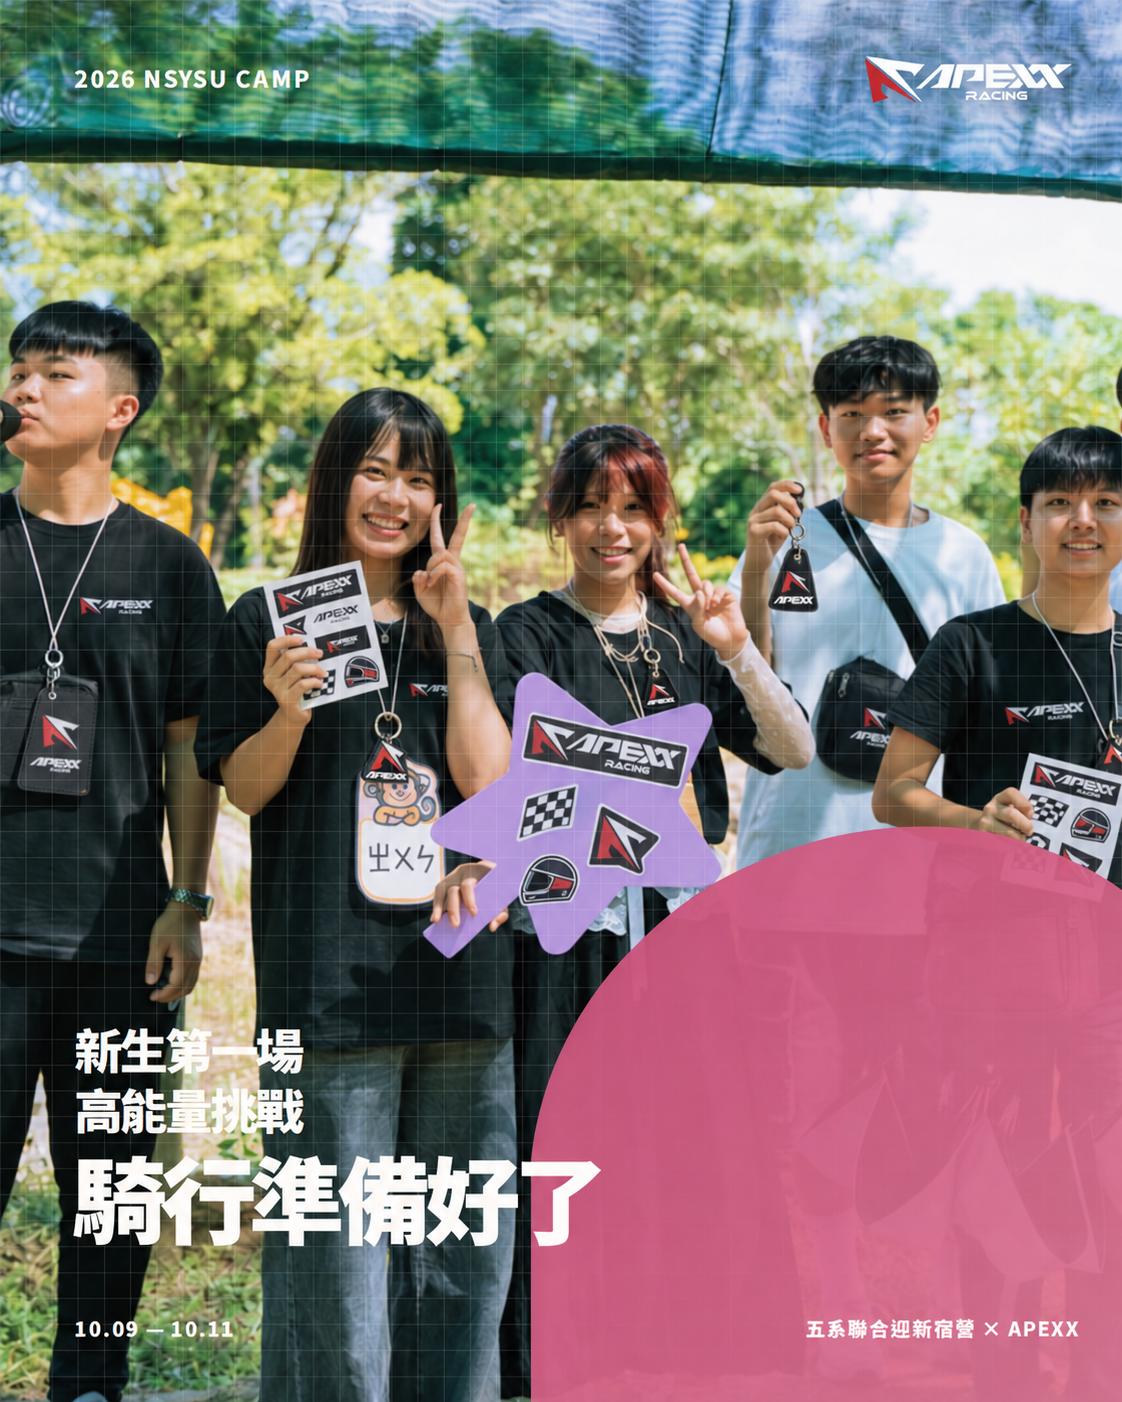
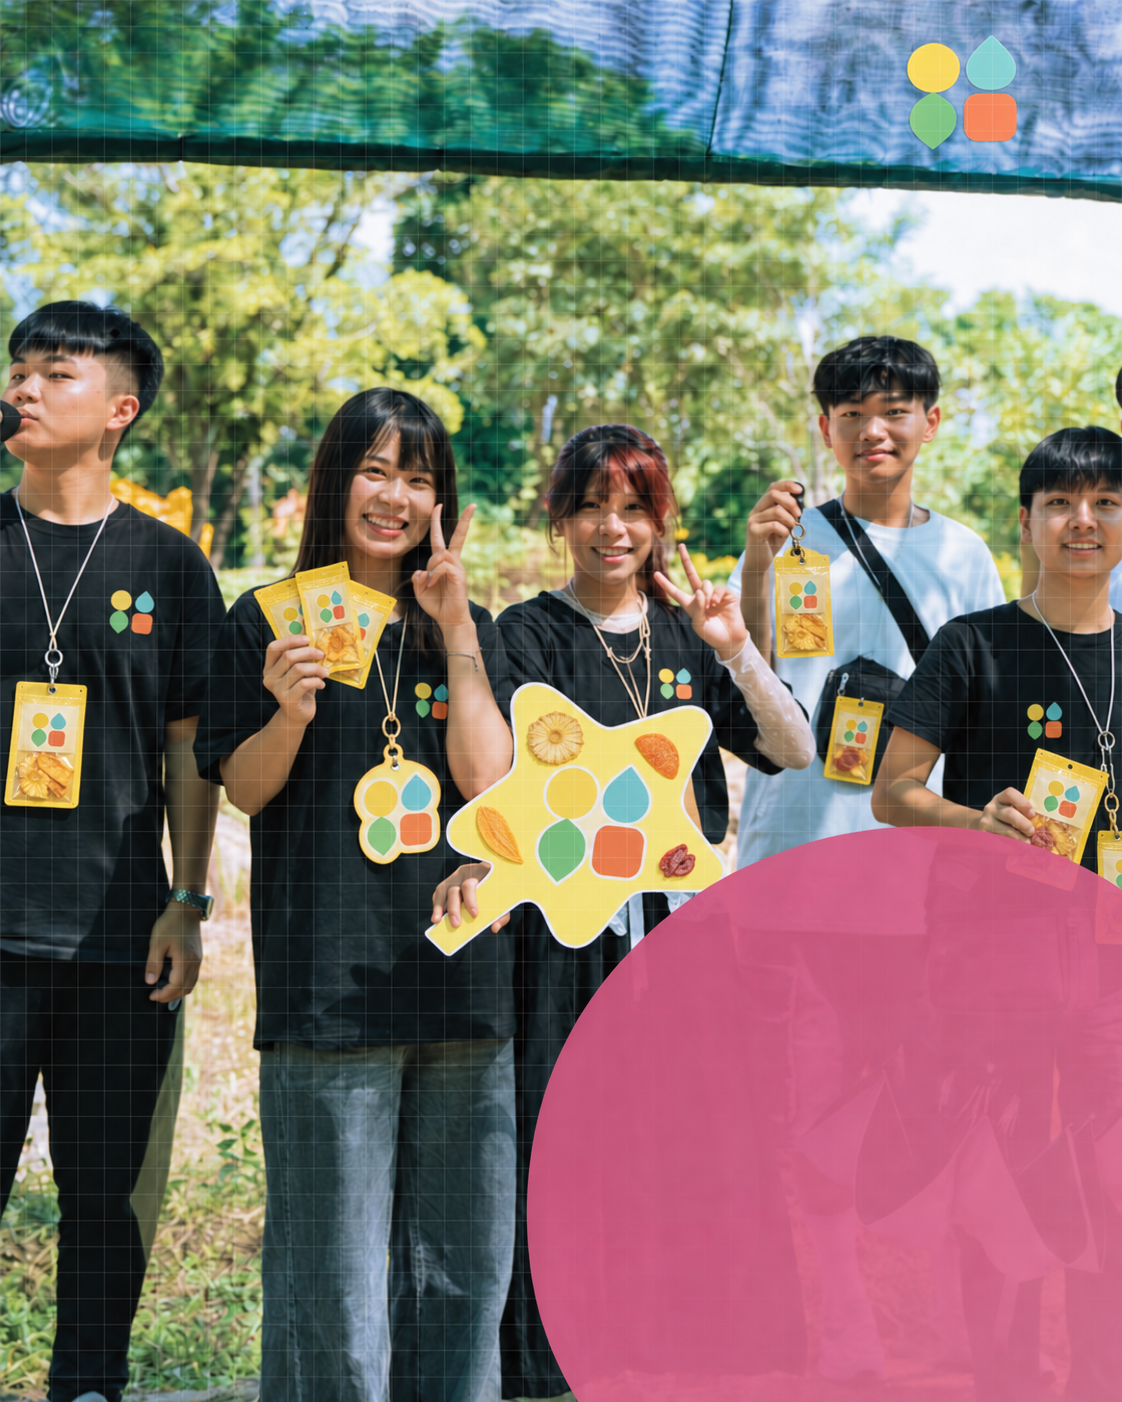
fix(sunny-gogo): update proposal copy and post visual

diff --git a/sunny-gogo/index.html b/sunny-gogo/index.html
@@ -19,5 +19,11 @@
       <section class="proposal-page collaboration" id="collaboration" aria-labelledby="collaboration-title" tabindex="-1"><div class="shell hydration-grid"><figure class="hydration-photo"><img src="assets/images/sponsor-work-together.webp" alt="宿營學員團隊合照" /><figcaption>合作情境示意｜贊助品與宣傳素材將依 陽光菓菓 Sunny GoGo 核可內容執行</figcaption></figure><div class="hydration-copy"><p class="eyebrow blue">WHY 陽光菓菓 Sunny GoGo</p><h2 id="collaboration-title"><span>讓在地風味成為</span><span>晚會交流的記憶</span></h2><p>我們期待在活動中，以不將產品作為高風險活動或競賽的必要條件的方式，介紹陽光菓菓指定商品與品牌故事。商品實際提供方式、保存條件與現場呈現皆以品牌最終確認為準。</p><a class="source-link" href="https://www.sunnygogo.com.tw" target="_blank" rel="noopener noreferrer">前往陽光菓菓官方網站 ↗</a><article class="ask-card"><div class="ask-card-title"><span>核心合作邀請</span><strong>陽光菓菓台灣在地無添加果乾隨手包</strong><span class="ask-product-detail">80 包｜活動合作安排</span></div><p>希望邀請 陽光菓菓 Sunny GoGo 提供 <b>80 包</b>，作為福袋、闖關補給或晚會分享情境的合作提案基礎。實際提供方式、場域安排與活動安全規範，皆以品牌最終確認為準。</p><div class="blank-product"><span>合作安排</span><b>依品牌建議的保存、提供與食用方式安排於合適活動時段</b></div><p>若 陽光菓菓 Sunny GoGo 希望搭配貼紙、鑰匙圈或其他品牌識別素材，我們也很樂意依品牌提供的內容，規劃合適的活動互動、網站與社群露出；所有呈現方式皆會在執行前送交確認。</p><small>產品規格、適用性、提供方式、品牌素材與露出範圍，均以 陽光菓菓 Sunny GoGo 最終確認為準。</small></article><a class="next-link" href="#proposal">看合作方案 <span aria-hidden="true">↓</span></a></div></div></section>
       <section class="proposal-page partnership" id="proposal" aria-labelledby="proposal-title" tabindex="-1"><div class="shell partnership-heading"><p class="eyebrow">PARTNERSHIP PROPOSAL</p><h2 id="proposal-title">讓陽光菓菓的在地風味成為晚會交流的一部分</h2></div><div class="shell decision-layout"><article class="primary-request"><p>優先合作方案</p><div class="request-number"><strong>陽光菓菓台灣在地無添加果乾隨手包<br /><span>80 包</span></strong></div><ul><li>台灣在地無添加果乾隨手包依品牌建議的保存與提供方式安排</li><li>不作為遊戲獎勵，現場亦備有飲水與基本補給</li><li>實際提供與使用方式依品牌及場地規範確認</li><li>活動網站與 Instagram 內容皆於上線前送交核可</li></ul></article></div><div class="shell deliverable-table-wrap"><table class="deliverable-table"><caption>合作內容</caption><thead><tr><th scope="col">合作項目</th><th scope="col">主辦方交付</th><th scope="col">可共同討論</th><th scope="col">回報憑據</th></tr></thead><tbody><tr><th scope="row">活動合作安排</th><td>80 包僅在依品牌建議的保存、提供與食用方式的前提下，評估安排於活動適合時段。</td><td>產品提供方式、適用性與場地規範。</td><td>執行紀錄與現場照片。</td></tr><tr><th scope="row">品牌識別素材</th><td>若品牌提供貼紙、鑰匙圈或其他宣傳素材，可規劃為互動贈品或核可後的宣傳內容。</td><td>是否提供、素材種類、數量與使用規範。</td><td>現場與素材使用紀錄。</td></tr><tr><th scope="row"><a href="activity-mockup.html" target="_blank" rel="noopener noreferrer">活動官網 ↗</a></th><td>合作頁放置 陽光菓菓 Sunny GoGo Logo、官方連結與核可後的簡短介紹。</td><td>Logo 檔、連結與上線前審核。</td><td>線上截圖。</td></tr><tr><th scope="row">Instagram 合作內容</th><td>活動前、現場、活動後各 1 則內容；文案與視覺均先送 陽光菓菓 Sunny GoGo 確認。</td><td>素材、標記帳號與文案規範。</td><td>貼文連結與限時動態截圖。</td></tr><tr><th scope="row">成果結案</th><td>活動後 14 日內整理合作執行摘要與公開紀錄。</td><td>指定收件窗口與成果欄位。</td><td>結案 PDF、照片與公開連結。</td></tr></tbody></table></div><div class="shell content-preview" aria-labelledby="content-preview-title"><div class="content-preview-copy"><p class="eyebrow">CONTENT EXAMPLE</p><h3 id="content-preview-title"><span>Instagram</span><span>貼文模擬</span></h3><p>以下以三則貼文呈現合作方向：活動前建立期待、活動中記錄互動、活動後收束回憶。視覺、文案與發布時程皆會於上線前送交 陽光菓菓 Sunny GoGo 確認。</p><div class="resource-links"><a class="resource-link" href="https://benson0875.github.io/nsysu-camp-2026-repo/" target="_blank" rel="noopener noreferrer">前往活動官網 ↗</a><a class="resource-link" href="https://www.instagram.com/2026_nsysu_camp/" target="_blank" rel="noopener noreferrer">前往 Instagram ↗</a></div></div><article class="instagram-mockup" aria-label="陽光菓菓 Sunny GoGo Instagram 貼文模擬器"><header><img src="assets/images/logo-avatar.jpg" alt="" /><div><b>2026_nsysu_camp</b><small>中山五系聯合迎新宿營</small></div><button type="button" aria-label="更多選項">•••</button></header><div class="instagram-media"><img id="instagram-image" src="assets/instagram/01-before.png" alt="陽光菓菓 Sunny GoGo 合作貼文範例一" /><button class="ig-arrow previous" type="button" aria-label="上一張貼文" onclick="window.sponsorShowPost?.(-1); return false;">‹</button><button class="ig-arrow next" type="button" aria-label="下一張貼文" onclick="window.sponsorShowPost?.(1); return false;">›</button></div><div class="instagram-actions"><span aria-hidden="true">♡　◯　➤</span><div class="ig-dots" aria-label="貼文頁數"><button class="is-current" type="button" aria-label="顯示第 1 張範例" onclick="window.sponsorShowPost?.(0, true); return false;"></button><button type="button" aria-label="顯示第 2 張範例" onclick="window.sponsorShowPost?.(1, true); return false;"></button><button type="button" aria-label="顯示第 3 張範例" onclick="window.sponsorShowPost?.(2, true); return false;"></button></div><span aria-hidden="true">⌑</span></div><div class="instagram-caption"><b>2026_nsysu_camp</b><p id="instagram-caption">活動前，我們先把晚會的交流規劃好。所有合作素材均於上線前送陽光菓菓確認。</p><small id="instagram-date">貼文方向一｜活動前</small></div></article></div><div class="shell page-next"><a class="next-link" href="#execution">看活動執行與安全規劃 <span aria-hidden="true">↓</span></a></div></section>
       <section class="proposal-page execution" id="execution" aria-labelledby="execution-title" tabindex="-1"><div class="shell execution-heading"><p class="eyebrow">EXECUTION &amp; SAFETY</p><h2 id="execution-title">把合作融入活動也守住安全</h2></div><div class="shell schedule-grid"><article><span>DAY 1 / 10.09</span><h3>先認識彼此</h3><p>破冰、夜教、宵夜</p><small>校園內集合與活動，隊輔帶領、點名與安全說明。</small></article><article><span>DAY 2 / 10.10</span><h3>高活動量的一天</h3><p>走馬瀨大地遊戲、水大地、晚會</p><small>抽獎與合作夥伴致謝可安排於晚會等合適環節。</small></article><article><span>DAY 3 / 10.11</span><h3>完成共同旅程</h3><p>結業、團隊活動、安平探索</p><small>戶外活動與移動前皆完成安全說明，結束後返抵中山大學。</small></article></div><div class="shell safety-grid"><article><h3>現場安全</h3><p>飲水、急救箱、點名與醫療聯絡表全程配置。各活動前完成安全說明與器材檢查。</p></article><article><h3>天候與應變</h3><p>雨勢、高溫或重大事件依校方、場地方與政府指示調整。</p></article><article><h3>合作執行原則</h3><p>抽獎與宣傳不影響活動安全與參與者隱私。所有對外品牌文字皆經確認後發布。</p></article></div><div class="shell closing-card"><div><p class="eyebrow">NEXT STEP</p><h2><span>期待與 陽光菓菓 Sunny GoGo 一起</span><span>讓相遇留下好的記憶</span></h2></div><p>若 陽光菓菓 Sunny GoGo 願意評估本案，我們將依品牌回覆確認贊助商品、素材與交付項目，並提供最終執行版本。</p></div></section>
+    <script>
+      const collaborationCopy = document.querySelector('#collaboration .hydration-copy > p:not(.eyebrow)');
+      if (collaborationCopy) collaborationCopy.textContent = '我們期待在活動中，介紹陽光菓菓指定商品與品牌故事。商品實際提供方式、保存條件與現場呈現皆以品牌最終確認為準。';
+      const activityLink = document.querySelector('.deliverable-table a[href="activity-mockup.html"]');
+      if (activityLink) activityLink.href = 'https://benson0875.github.io/nsysu-camp-2026-repo/';
+    </script>
   </body>
 </html>

diff --git a/sunny-gogo/assets/css/proposal.css b/sunny-gogo/assets/css/proposal.css
@@ -93,3 +93,6 @@ main { flex:1; }
 .ask-card-title span { display:block;margin-bottom:5px; }
 .ask-card-title strong { display:block;white-space:nowrap;font-size:clamp(1.55rem,3vw,2.35rem);line-height:1.15; }
 @media (max-width:700px) { .ask-card-title strong { white-space:normal; } }
+
+/* Keep long product names within the invitation card at every viewport width. */
+.ask-card-title strong { white-space:normal; overflow-wrap:anywhere; font-size:clamp(1.3rem,2.4vw,2rem); }
